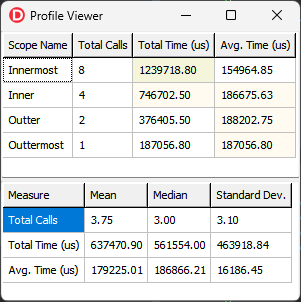
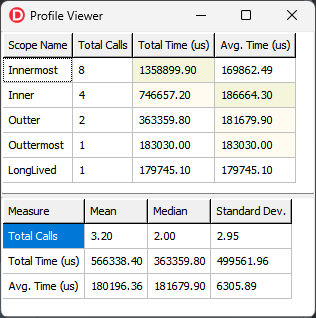
Add support for long-lived trace events

diff --git a/README.md b/README.md
@@ -13,10 +13,15 @@ uses
   System.SysUtils,
   Profiler.Trace;
 
+var
+  LongLived: ITrace;
+
 procedure Innermost;
 begin
   Trace('Innermost');
-  Sleep(150);
+  Sleep(50);
+  LongLived := nil;
+  Sleep(100);
 end;
 
 procedure Inner;
@@ -43,6 +48,7 @@ procedure Outtermost;
 begin
   Trace('Outtermost');
   Sleep(50);
+  Trace('LongLived', LongLived);
   Outter;
   Sleep(50);
   Outter;
@@ -57,14 +63,15 @@ end.
 Output file `profile.csv` (entries are sorted in descending order of total time):
 
     "Scope Name","Total Calls","Total Time (us)","Avg. Time (us)"
-    "Innermost","8","1239718.80","154964.85"
-    "Inner","4","746702.50","186675.63"
-    "Outter","2","376405.50","188202.75"
-    "Outtermost","1","187056.80","187056.80"
+    "Innermost","8","1358899.90","169862.49"
+    "Inner","4","746657.20","186664.30"
+    "Outter","2","363359.80","181679.90"
+    "Outtermost","1","183030.00","183030.00"
+    "LongLived","1","179745.10","179745.10"
 
 Output file `stats.csv`:
 
     "Measure","Mean","Median","Standard Dev."
-    "Total Calls","3.75","3.00","3.10"
-    "Total Time (us)","637470.90","561554.00","463918.84"
-    "Avg. Time (us)","179225.01","186866.21","16186.45"
+    "Total Calls","3.20","2.00","2.95"
+    "Total Time (us)","566338.40","363359.80","499561.96"
+    "Avg. Time (us)","180196.36","181679.90","6305.89"
